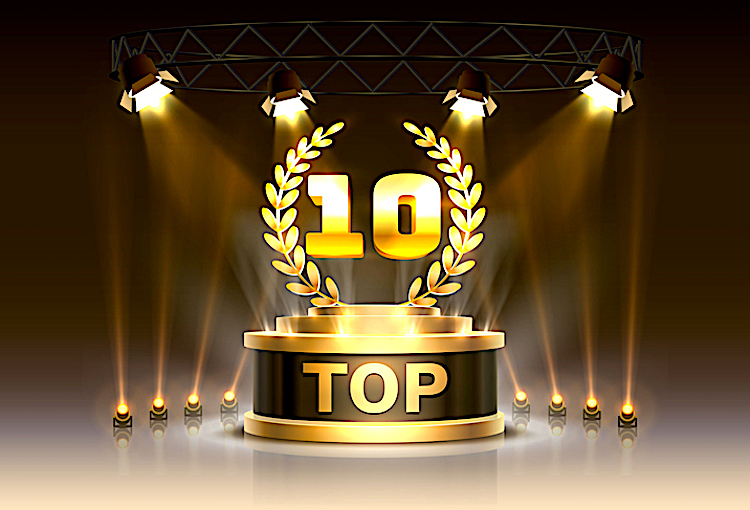
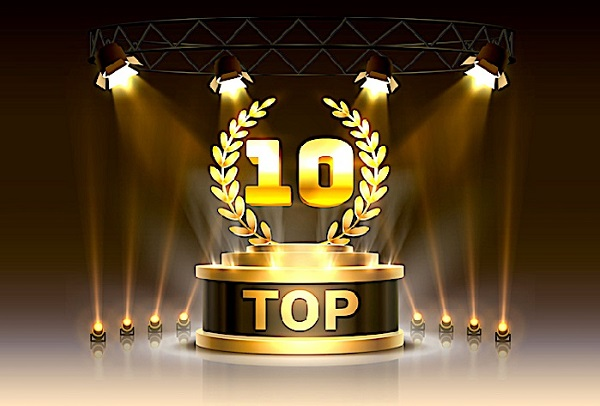
resize carousel and add links to pages

diff --git a/public/stylesheet/dashboard.css b/public/stylesheet/dashboard.css
@@ -58,3 +58,52 @@ nav a {
   .jane {
     background-color: magenta;
   }
+
+
+.main-body {
+    padding: 15px;
+}
+.card {
+    box-shadow: 0 1px 3px 0 rgba(0,0,0,.1), 0 1px 2px 0 rgba(0,0,0,.06);
+}
+
+.card {
+    position: relative;
+    display: flex;
+    flex-direction: column;
+    min-width: 0;
+    word-wrap: break-word;
+    background-color: #fff;
+    background-clip: border-box;
+    border: 0 solid rgba(0,0,0,.125);
+    border-radius: .25rem;
+}
+
+.card-body {
+    flex: 1 1 auto;
+    min-height: 1px;
+    padding: 1rem;
+}
+
+.gutters-sm {
+    margin-right: -8px;
+    margin-left: -8px;
+}
+
+.gutters-sm>.col, .gutters-sm>[class*=col-] {
+    padding-right: 8px;
+    padding-left: 8px;
+}
+.mb-3, .my-3 {
+    margin-bottom: 1rem!important;
+}
+
+.bg-gray-300 {
+    background-color: #e2e8f0;
+}
+.h-100 {
+    height: 100%!important;
+}
+.shadow-none {
+    box-shadow: none!important;
+}

diff --git a/public/stylesheet/main.css b/public/stylesheet/main.css
@@ -41,6 +41,19 @@ header h1 {
   border-right: 1px solid black;
 }
 
+.carousel-item img {
+  max-height: 600px;
+  max-width: 400px;
+  margin: auto;
+  display: block;
+  background-color: #BFDBAE;
+}
+
+h3, p {
+  color: darkgreen;
+  font-weight: bolder;
+}
+
 .josh {
   background-color: orange;
   width: 90px;
